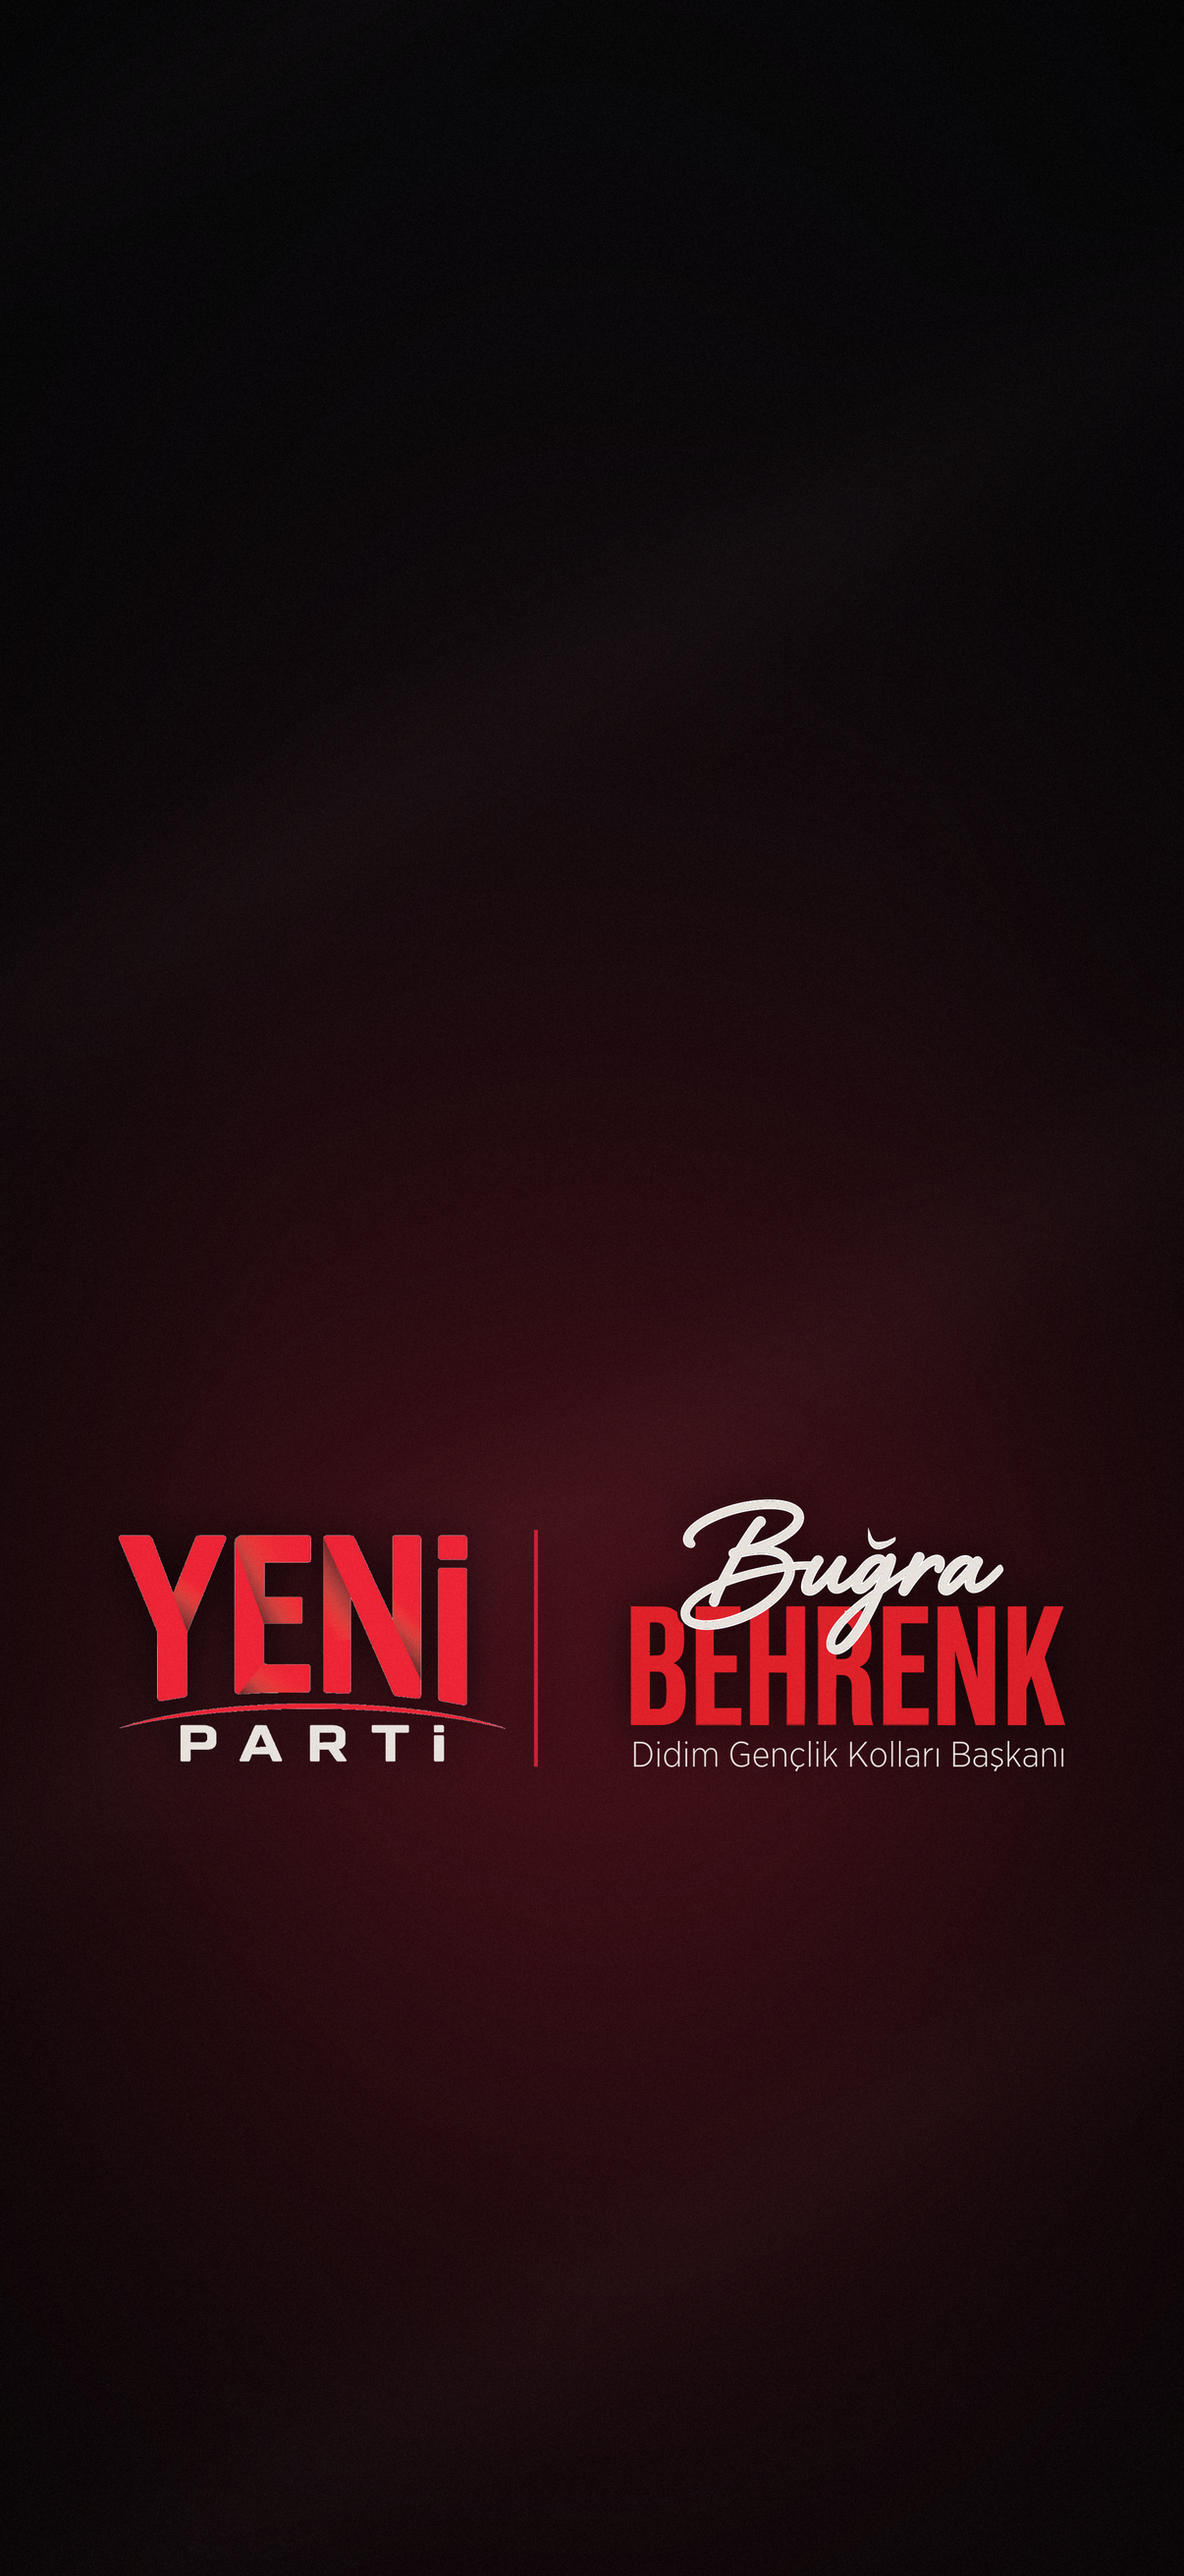
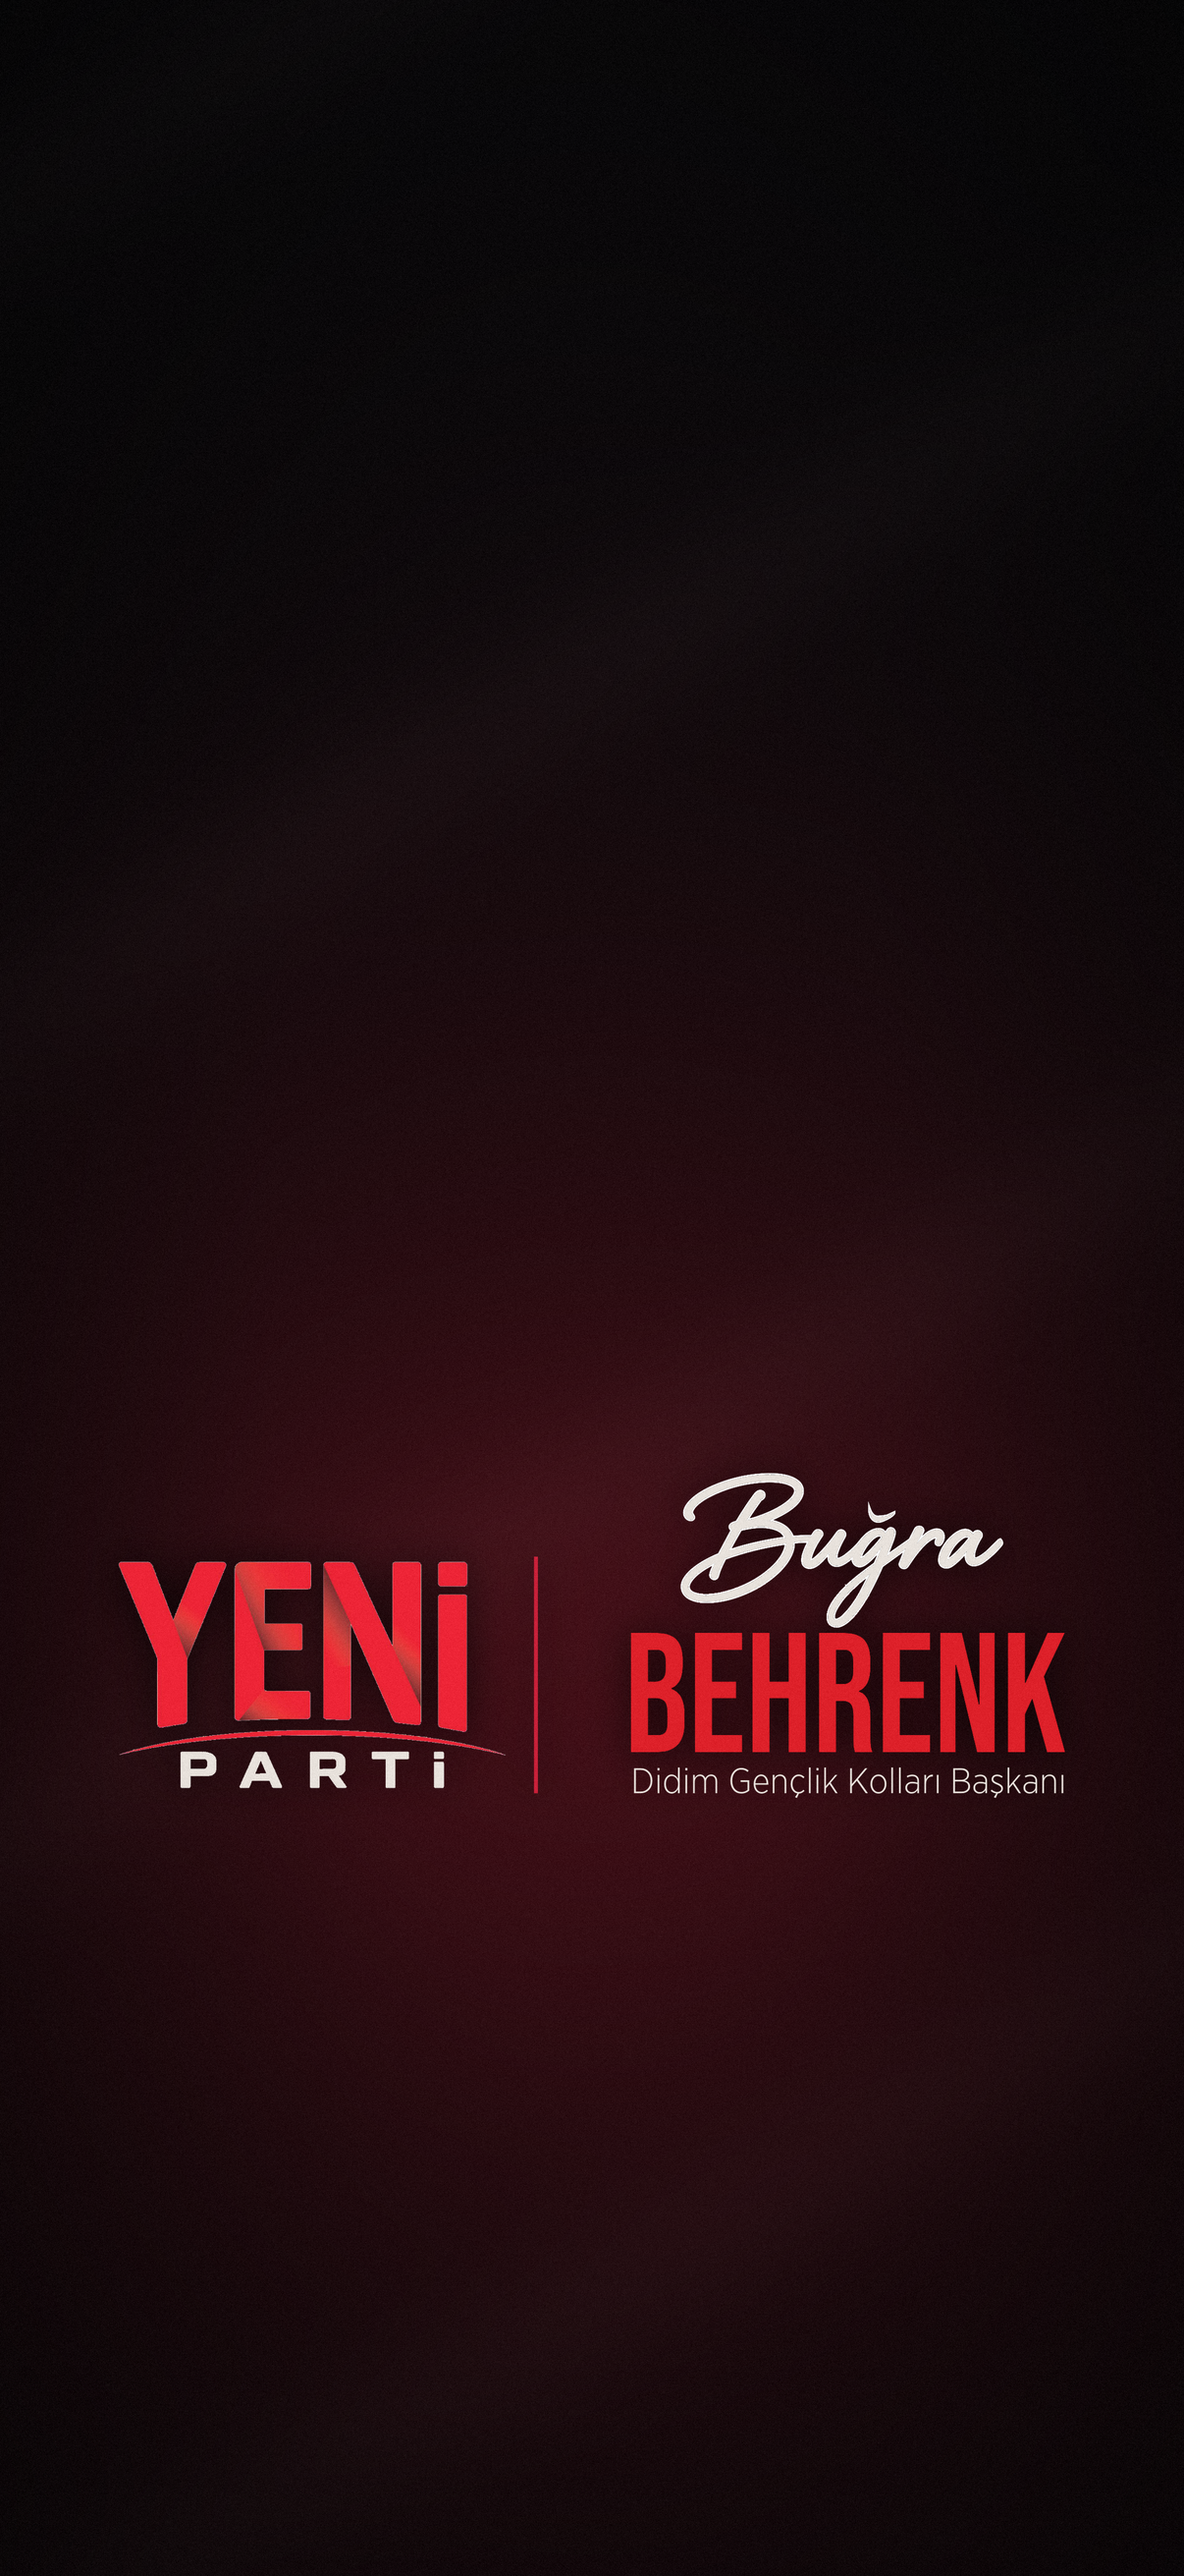
Duvar kağıdı: Buğra ile BEHRENK ayrıldı, BEHRENK temiz yeniden dizildi
Claude-Session: https://claude.ai/code/session_01SatttGbgBLoCnk9KGLypWv

Changed region(s): [[0.5216, 0.5561, 0.9204, 0.7105], [0.092, 0.587, 0.3988, 0.7105]]

diff --git a/tasarim/kisisel/wallpaper/b.html b/tasarim/kisisel/wallpaper/b.html
@@ -1,0 +1,2 @@
+<!doctype html><meta charset=utf-8><style>@font-face{font-family:B;src:url(../../fontlar-gecici/BebasNeue-latin.woff2)}
+body{margin:0;background:transparent}#t{display:inline-block;font:300px/1 B;color:#E0202B;letter-spacing:0;padding:0 4px}</style><span id=t>BEHRENK</span>

diff --git a/tasarim/kisisel/wallpaper/yap.py b/tasarim/kisisel/wallpaper/yap.py
@@ -16,7 +16,7 @@ base+=(s**8)[...,None]*np.array([5,4,4],np.float32)
 d=np.hypot((xx-W/2)/(W/2),(yy-H/2)/(H/2)); base*=(1-0.45*np.clip(d-0.55,0,1))[...,None]
 img=Image.fromarray(base.clip(0,255).astype(np.uint8)).convert('RGBA')
 # imza: renkli sürüm, koyu gri kısımlar açık renge
-im=Image.open('../imza-orijinal.png').convert('RGBA'); a=np.asarray(im).astype(np.float32)
+im=Image.open('imza-duzen.png').convert('RGBA'); a=np.asarray(im).astype(np.float32)
 r,gc,b,al=a[...,0],a[...,1],a[...,2],a[...,3]
 koyu=(r-gc<40)&(np.maximum(np.maximum(r,gc),b)<150)
 a[koyu,0:3]=[232,226,220]
